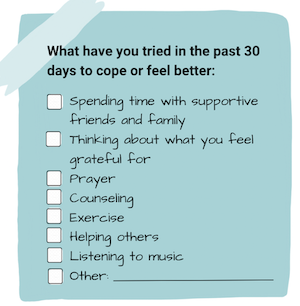
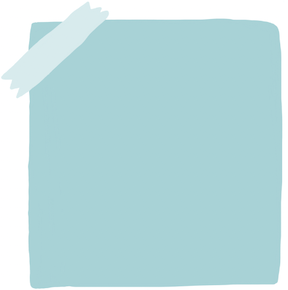
Replace checklist graphic text  with html/css

Changed region(s): [[0.0, 0.0, 1.0, 1.0], [0.375, 0.9, 0.9062, 0.931]]

diff --git a/app/pages/Pdf/IntimatePartnerViolencePdfPage.tsx b/app/pages/Pdf/IntimatePartnerViolencePdfPage.tsx
@@ -2,6 +2,7 @@ import React, { useState, useEffect, useRef } from "react";
 import ReactMarkdown from "react-markdown";
 import { useParams, useLocation } from "react-router-dom";
 import Checklist from "assets/img/domestic-violence-checklist.png";
+import type { PhoneNumber } from "../../models/Meta";
 
 import { whiteLabel } from "utils";
 
@@ -77,6 +78,7 @@ export const IntimatePartnerViolencePdfPage = () => {
 
   const { resource, recurringSchedule } = service;
   const locations = getServiceLocations(service, resource, recurringSchedule);
+  const checklistItems = ['Spending time with supportive friends and family', "Thinking about what you feel grateful for", "Prayer", "Counseling", "Exercise", "Helping others", "Listening to music", "Other: __________________"]
 
   return (
     <div>
@@ -103,6 +105,9 @@ export const IntimatePartnerViolencePdfPage = () => {
           {/* The below styles contain some overrides of global .renderedMarkdown and table tag selector styles */}
           <style className="notranslate" ref={styleRef}>
             {`
+
+          @import url('https://fonts.googleapis.com/css2?family=Architects+Daughter&display=swap');
+
           .serviceHandoutPdf * {
             margin: 0;
             font-family: "Open Sans", "San Francisco", "Roboto", "Arial", sans-serif;
@@ -201,7 +206,7 @@ export const IntimatePartnerViolencePdfPage = () => {
           .contentContainer {
             display: grid;
             grid-template-columns: 47fr 53fr;
-            gap: 20px;
+            gap: 18px;
           }
 
           .rightColumn,
@@ -211,8 +216,75 @@ export const IntimatePartnerViolencePdfPage = () => {
             gap: 30px;
           }
 
+          .leftColumn {
+            z-index: 1;
+          }
+
+          .checklistContainer {
+            position: relative;
+            margin-left: -20px;
+          }
+
+          .checklistBody {
+            position: absolute;
+            top: 65px;
+            bottom: 15px;
+            left: 75px;
+            right: 35px;
+          }
+
+          .checklistContainer,
           .checklistImage {
-            width: 100%;
+            width: 400px;
+            height: auto;
+          }
+
+          .checklistHeader {
+            font-weight: 700;
+            margin-bottom: 18px;
+          }
+
+          .checklist {
+            display: grid;
+            gap: 6px;
+            margin: 0;
+            padding: 0;
+          }
+
+          .checklistItem {
+            line-height: 1.3;
+            font-family: 'Architects Daughter', cursive;
+            font-weight: 500;
+            display: flex;
+            gap: 6px;
+            flex-direction: row;
+            margin: 0;
+            padding: 0;
+          }
+
+          .checkbox {
+            position: relative;
+            flex-shrink: 0;
+            width: 20px;
+            height: 20px;
+          }
+
+          .checkboxBackground {
+            position: absolute;
+            background-color: white;
+            top: -1px;
+            left: 0;
+            right: -1px;
+            bottom: 0;
+            border-radius: 33%;
+          }
+
+          .checkboxBorder {
+            border: solid 1px black;
+            border-radius: 3px;
+            z-index: 1;
+            position: relative;
+            height: 100%;
           }
 
           .blurb {
@@ -252,6 +324,32 @@ export const IntimatePartnerViolencePdfPage = () => {
             font-weight: 400;
             font-size: 22px;
             margin-bottom: 10px;
+          }
+
+          .generalResourceList {
+            margin: 0;
+            padding: 0;
+            list-style-position: inside;
+            list-style: none;
+            display: flex;
+            flex-direction: column;
+            gap: 3px;
+          }
+
+          .generalResourceItem {
+            display: flex;
+            gap: 12px;
+            align-items: baseline;
+          }
+
+          .generalResourceItem::before {
+            content: "";
+            flex-shrink: 0;
+            background-color: #F3911E;
+            display: inline-block;
+            height: 8px;
+            width: 8px;
+            border-radius: 50%;
           }
 
           .recommendedResource {
@@ -318,6 +416,7 @@ export const IntimatePartnerViolencePdfPage = () => {
           .hoursTitle {
             font-weight: 600;
             text-decoration: underline;
+            margin-bottom: 2px;
           }
         `}
           </style>
@@ -356,7 +455,31 @@ export const IntimatePartnerViolencePdfPage = () => {
               </ul>
             </div>
             <div className="rightColumn">
-              <img className="checklistImage" src={`${window.location.origin}${Checklist}`} alt="" />
+              <div className="checklistContainer">
+                <div className="checklistBody">
+                  <p className="checklistHeader">
+                    What have you tried in the past 30 days to cope or feel
+                    better:
+                  </p>
+                  <ul className="checklist">
+                    {checklistItems.map((item) => (
+                      <li key={item} className="checklistItem">
+                        <div className="checkbox">
+                          <div className="checkboxBorder" />
+                          <div className="checkboxBackground" />
+                        </div>
+
+                        {item}
+                      </li>
+                    ))}
+                  </ul>
+                </div>
+                <img
+                  className="checklistImage"
+                  src="https://i.ibb.co/17PF7ZP/domestic-violence-checklist.png"
+                  alt=""
+                />
+              </div>
               <div className="recommendedResource">
                 <div className="resourceContent">
                   <div>
@@ -372,13 +495,6 @@ export const IntimatePartnerViolencePdfPage = () => {
                         linkTarget="_blank"
                       />
                     </div>
-                    <p className="serviceUrl">
-                      (See{" "}
-                      <a
-                        href={`${whiteLabel.siteUrl}/${service.id}`}
-                      >{`${whiteLabel.siteUrl}/${service.id}`}</a>{" "}
-                      for more details)
-                    </p>
                   </div>
 
                   <div className="locationInfo">
@@ -388,6 +504,7 @@ export const IntimatePartnerViolencePdfPage = () => {
                           <ServiceAddress
                             address={locations[0].address}
                             resourceName={service.resource.name}
+                            phones={service.resource.phones}
                           />
                           <div className="serviceHours">
                             <p className="hoursTitle">Hours</p>
@@ -435,12 +552,12 @@ const generalResources: GeneralResourceItem[] = [
     header: "FIND COMMUNITY RESOURCES",
     resourceItems: [
       {
-        description: "Behavioral Health Access Center Mon-Fri  9am-4pm:",
+        description: "Behavioral Health Access Center Mon-Fri  9am-4pm",
         contact: "415-255-3737 or 888-246-3333",
       },
       {
         description:
-          "24/7 Information and Referrals for food, shelter, child care, senior services, etc.:",
+          "24/7 Information and Referrals for food, shelter, child care, senior services, etc.",
         contact: "Call 3–1–1",
       },
     ],
@@ -449,17 +566,17 @@ const generalResources: GeneralResourceItem[] = [
     header: "24/7 HOTLINES",
     resourceItems: [
       {
-        description: "Suicide and Crisis Lifeline:",
+        description: "Suicide and Crisis Lifeline",
         contact: "988 or 415-781-0500",
         contactNewLine: true,
       },
       {
-        description: "La Casa de Las Madres:",
+        description: "La Casa de Las Madres",
         contact: "877-503-1850",
         contactNewLine: true,
       },
       {
-        description: "W.O.M.A.N. Inc:",
+        description: "W.O.M.A.N. Inc",
         contact: "\n877-384-3578",
         contactNewLine: true,
       },
@@ -476,16 +593,18 @@ const GeneralResource = ({
 }) => (
   <>
     <h3 className="generalResourceHeader">{header}</h3>
-    <ul>
+    <ul className="generalResourceList">
       {resourceItems.map((item) => (
-        <li>
-          {item.description}{" "}
-          <span
-            className={`resourceItemContact ${
-              item.contactNewLine ? "contactNewLine" : ""
-            }`}
-          >
-            {item.contact}
+        <li className="generalResourceItem" key={item.contact}>
+          <span>
+            {item.description}{" "}
+            <span
+              className={`resourceItemContact ${
+                item.contactNewLine ? "contactNewLine" : ""
+              }`}
+            >
+              {item.contact}
+            </span>
           </span>
         </li>
       ))}
@@ -497,14 +616,17 @@ type ServiceAddressProps = {
   resourceName: string;
   address: Address;
   website?: string | null;
+  phones: PhoneNumber[];
 };
 
 const ServiceAddress = ({
   resourceName,
   address,
   website,
+  phones,
 }: ServiceAddressProps) => {
   const { address_1, address_2, city, state_province, postal_code } = address;
+  const phone = phones?.[0];
   return (
     <div>
       <p className="resourceName">{resourceName}</p>
@@ -520,6 +642,10 @@ const ServiceAddress = ({
       <p>
         <span>{city}</span>, <span>{state_province}</span>{" "}
         <span>{postal_code}</span>
+      </p>
+      <p>
+        <span>{phone.number}</span>{" "}
+        {phone.service_type && `(${phone.service_type})`}
       </p>
       {website && <p>{website}</p>}
     </div>
